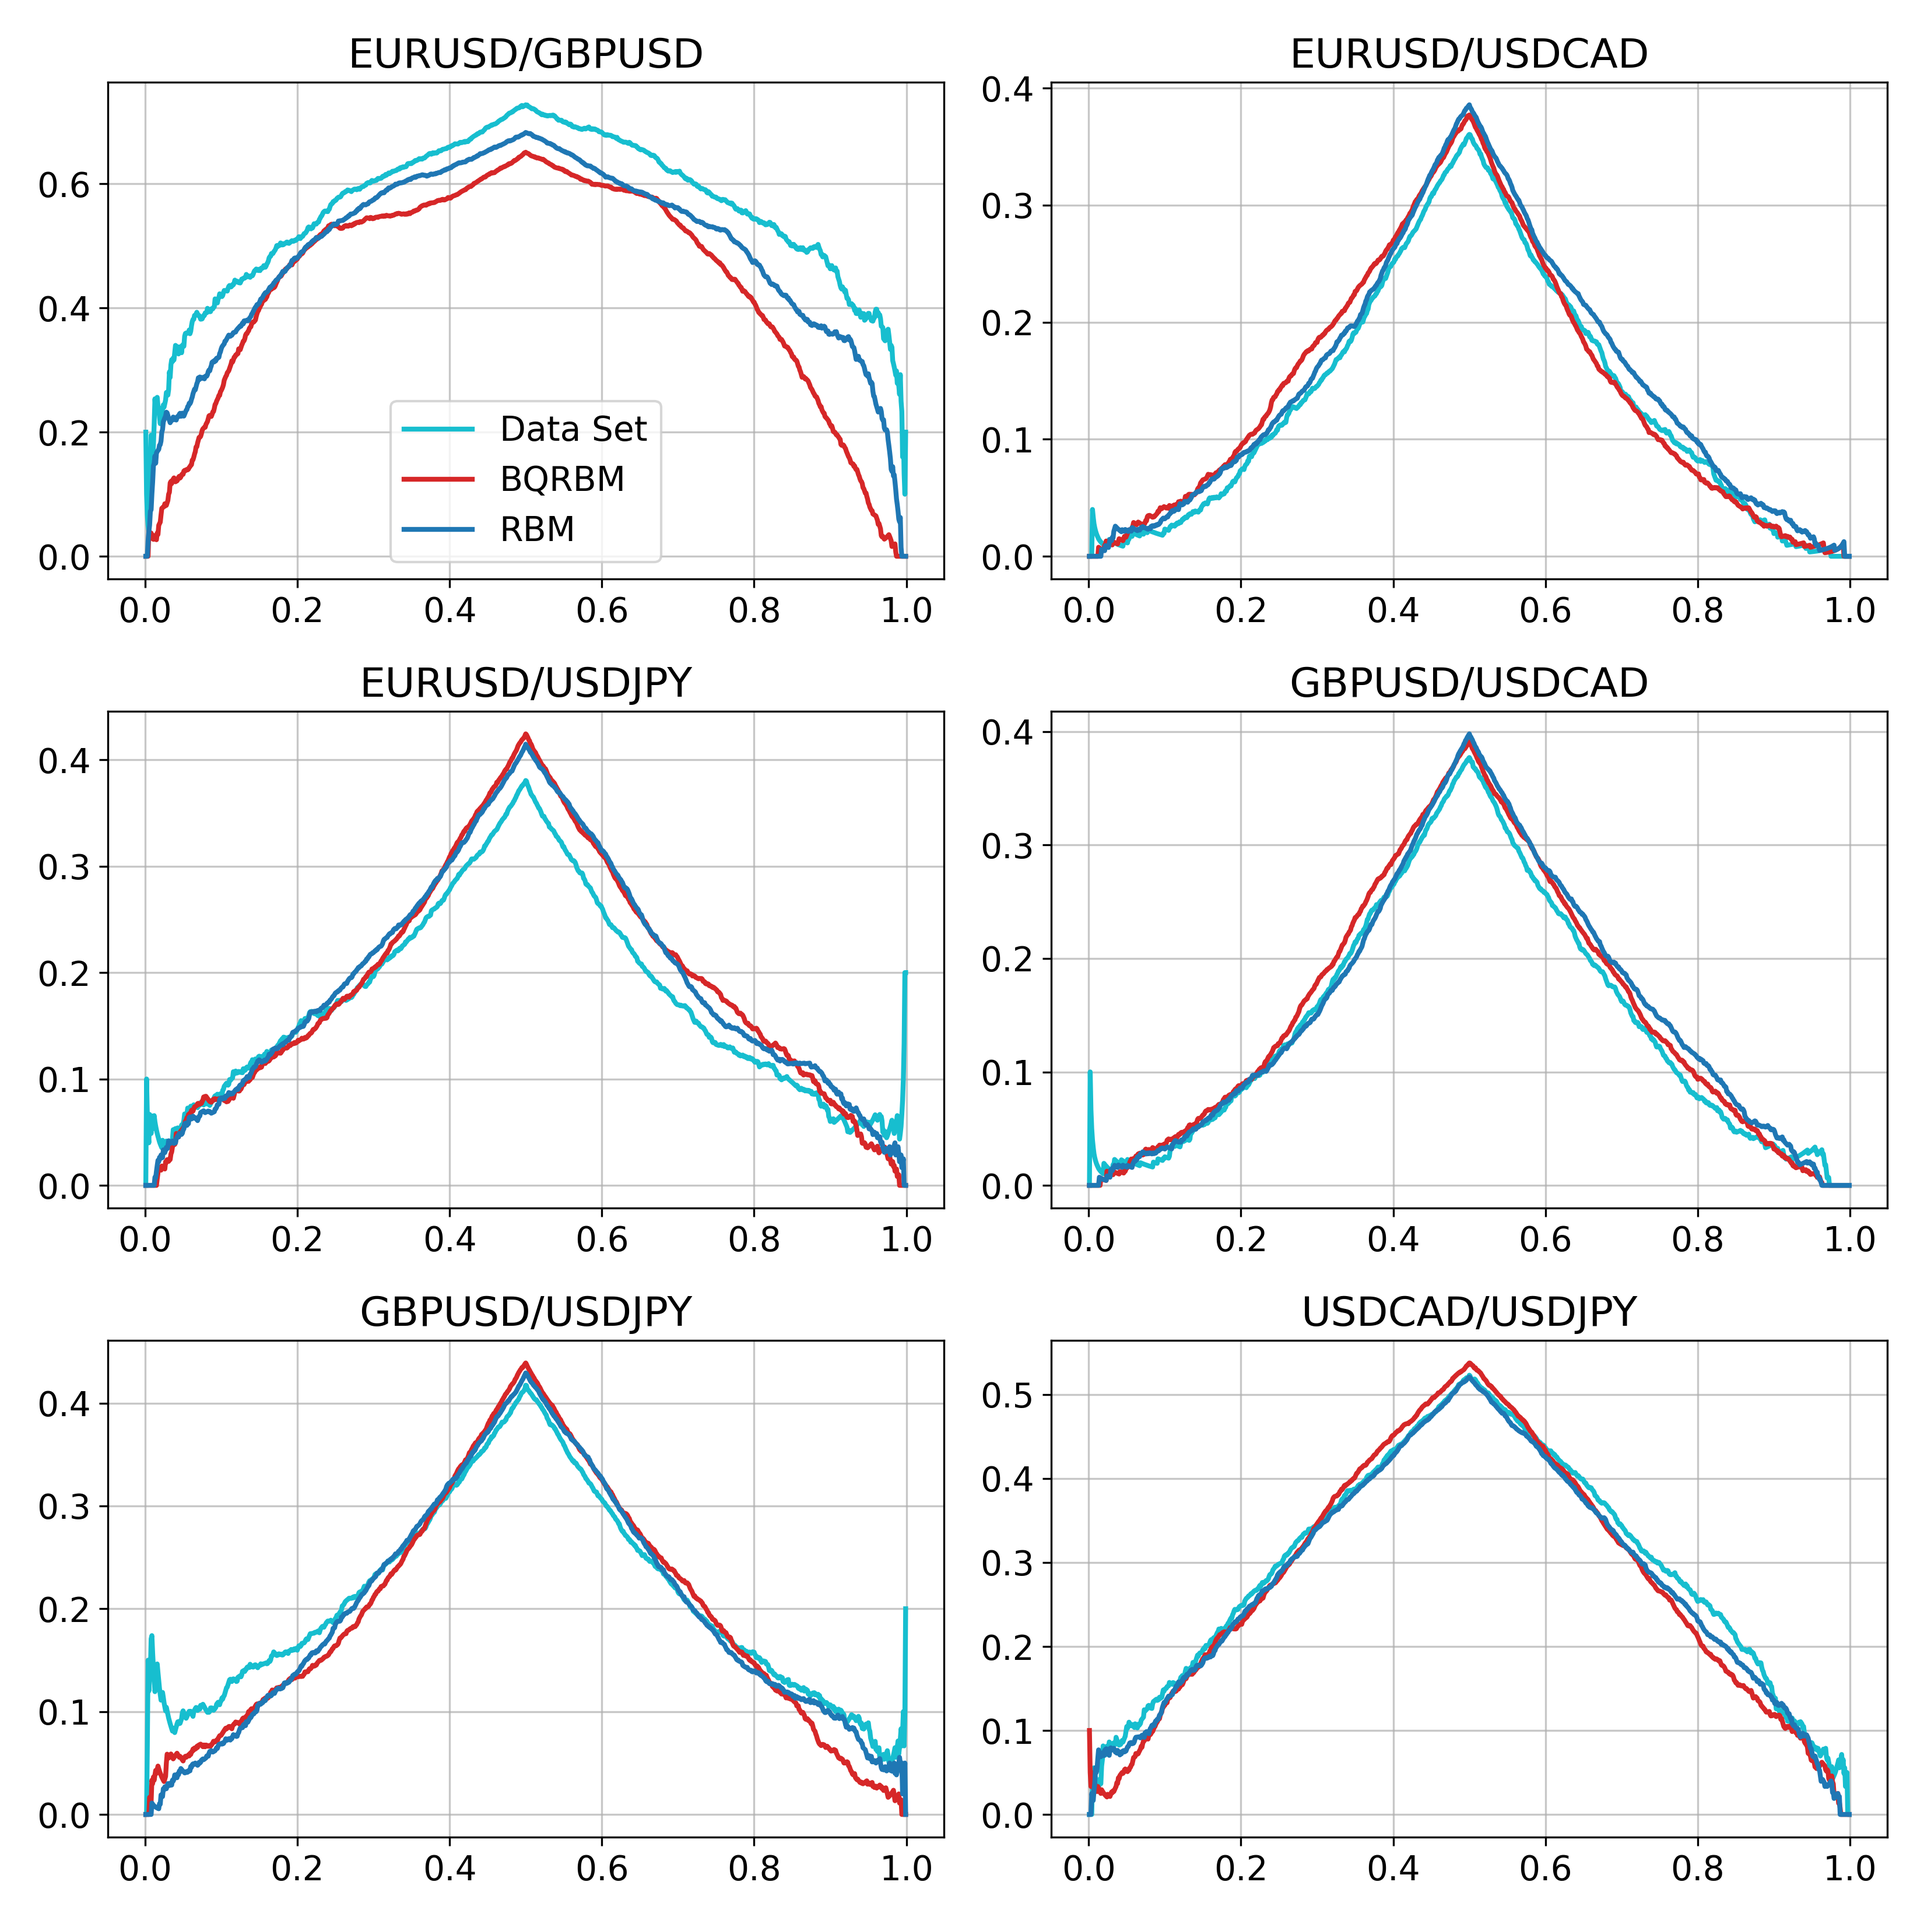
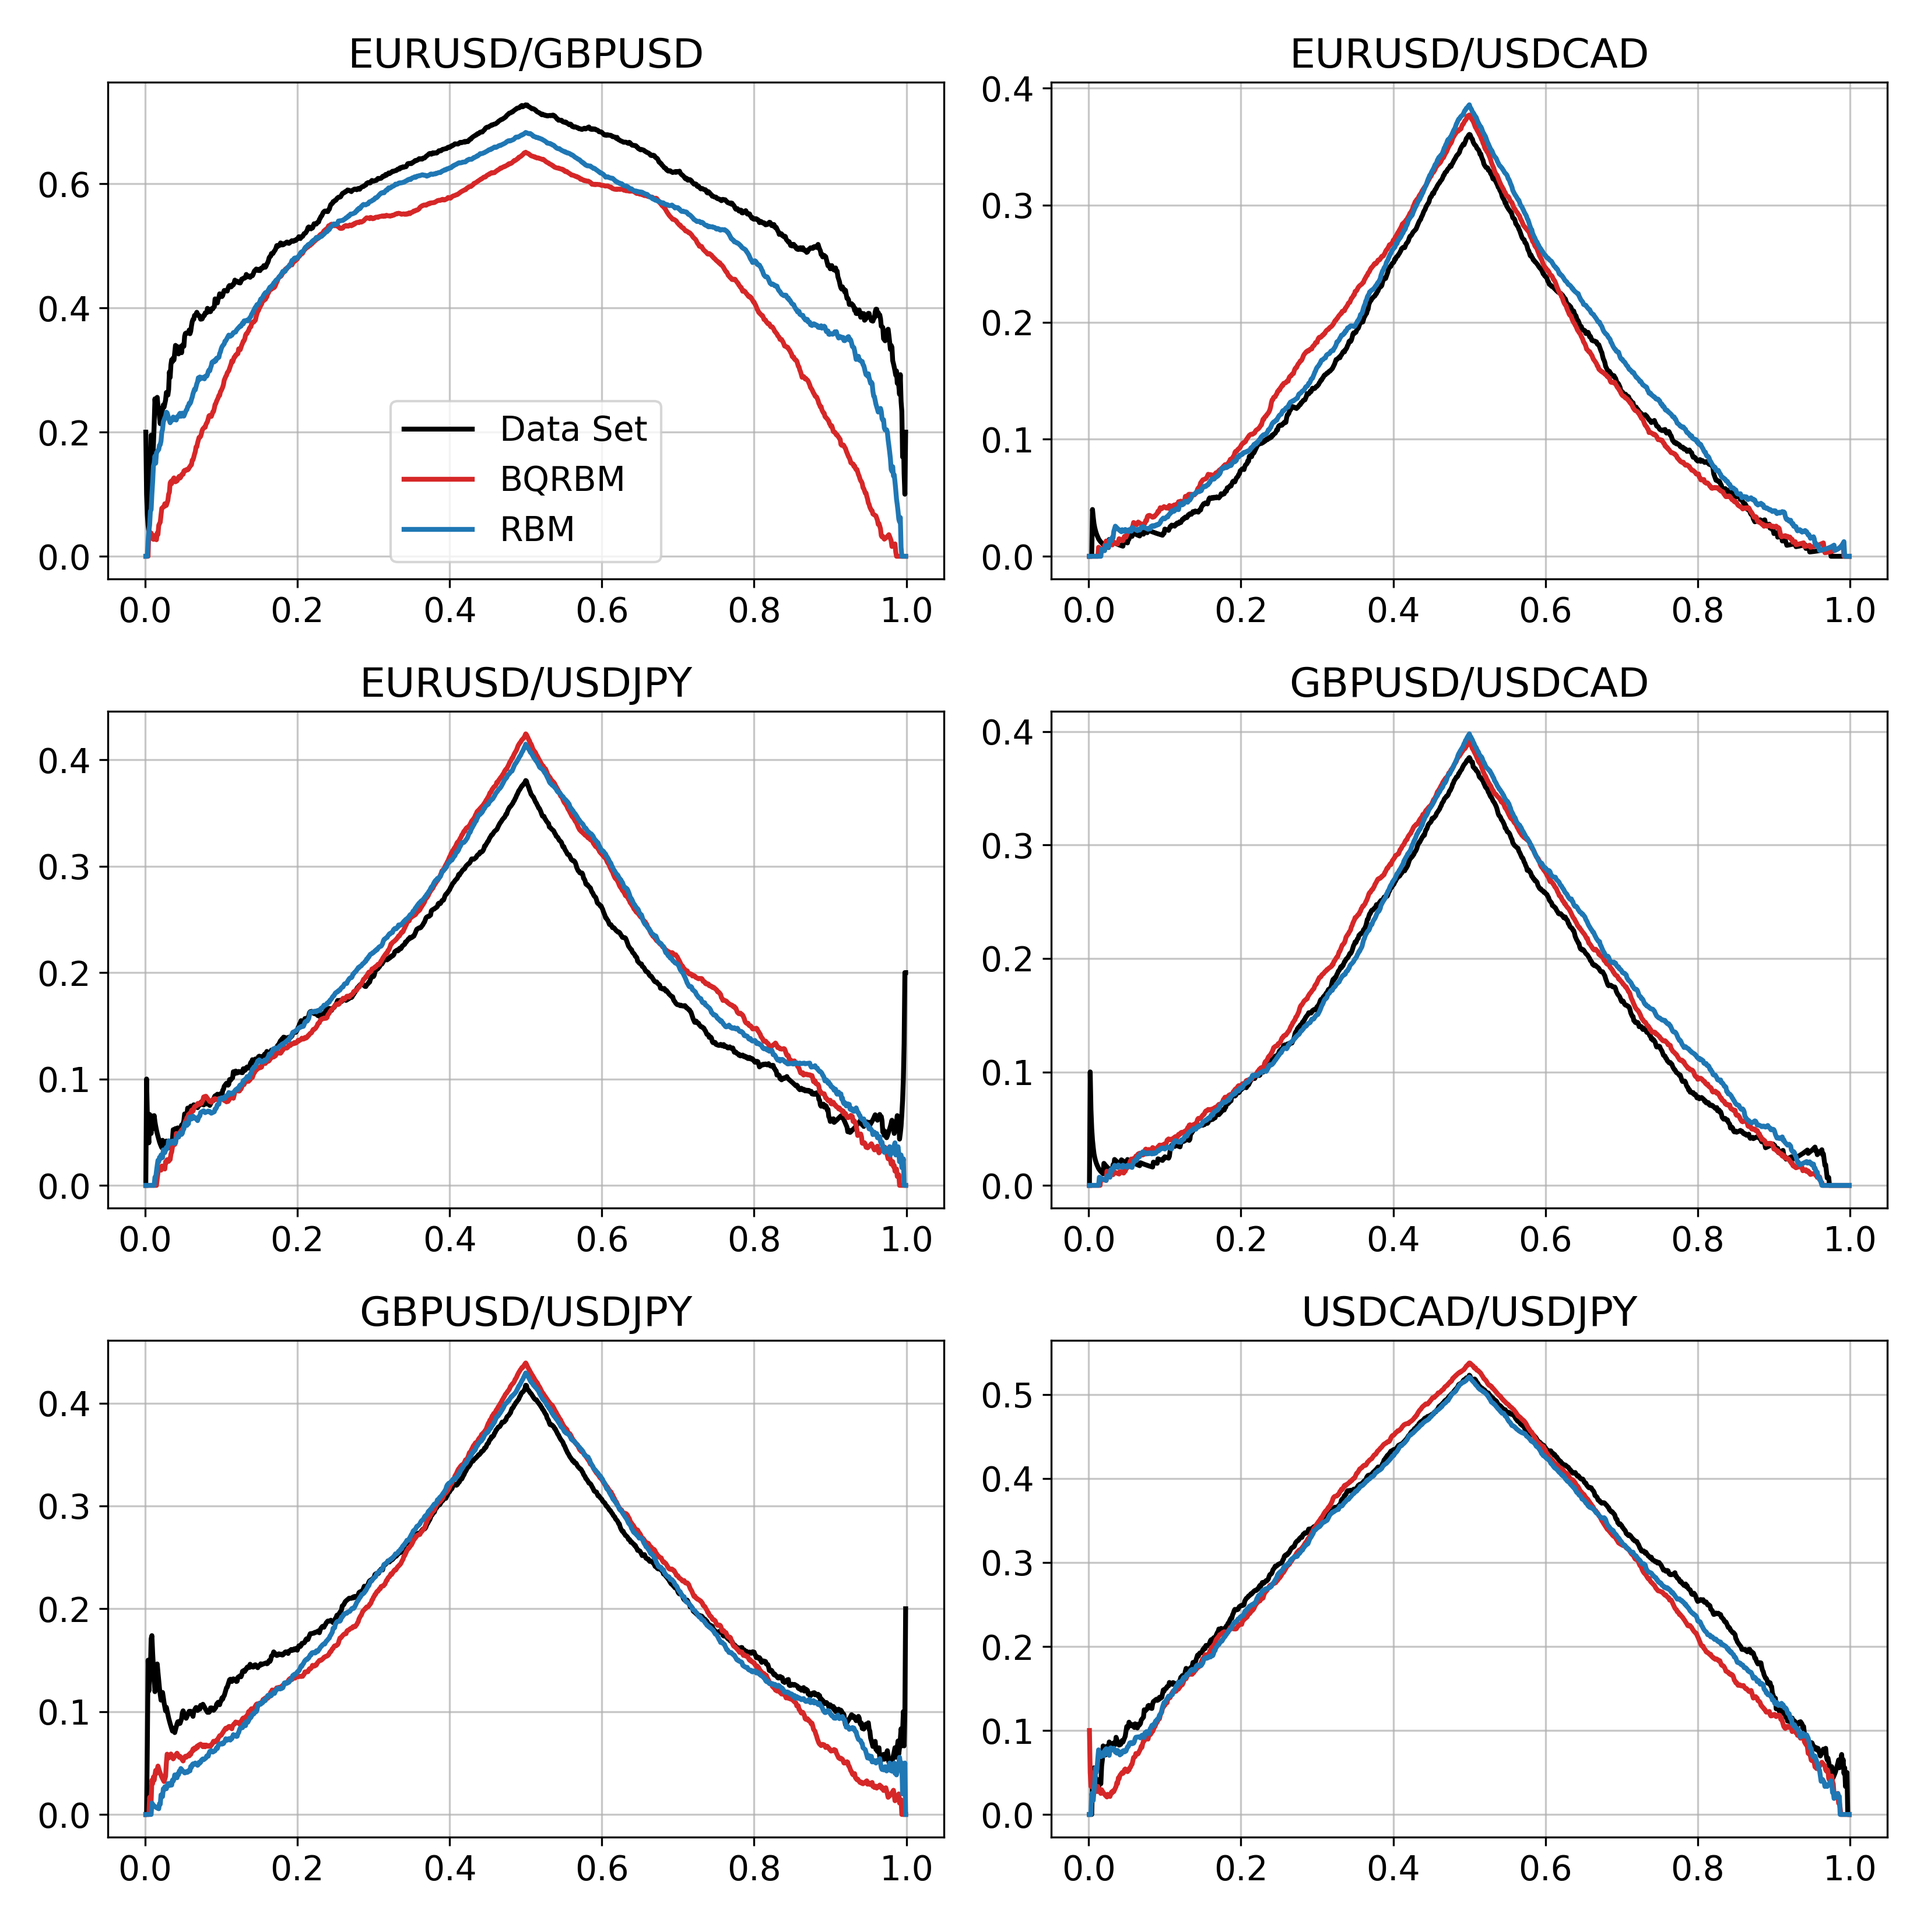
Updated tail concentration plots

diff --git a/src/qbm/plotting/metrics.py b/src/qbm/plotting/metrics.py
@@ -94,7 +94,7 @@ def plot_correlation_coefficients(data, sample):
         ax.errorbar(
             range(3),
             sample["means"].loc[row],
-            label="Sample Ensemble",
+            label="Samples Ensemble",
             yerr=sample["stds"].loc[row],
             fmt="o",
             markersize=4,
@@ -191,7 +191,7 @@ def plot_volatility_comparison(data, sample, params):
     ax.errorbar(
         range(len(data)),
         sample["means"],
-        label="Sample Ensemble",
+        label="Samples Ensemble",
         yerr=sample["stds"],
         fmt="o",
         markersize=6,

diff --git a/scripts/rbm/prepare_results.py b/scripts/rbm/prepare_results.py
@@ -202,7 +202,7 @@ matplotlib.rcParams.update({"font.size": 14})
 Plotting
 """
 colors = {
-    "Data Set": "tab:cyan",
+    "Data Set": "k",
     "RBM (B)": "tab:blue",
     "RBM (X)": "tab:orange",
     "RBM (V)": "tab:red",
@@ -280,7 +280,9 @@ table = "\n".join(table)
 save_table(table, "kl_divergences.tbl")
 
 # correlation coefficients table
-ccs = pd.concat(ccs.values(), axis=1).applymap(str_map, digits=2)
+ccs = pd.concat(ccs.values(), axis=1)
+ccs.to_csv(results_dir / "correlation_coefficients.csv")
+ccs = ccs.applymap(str_map, digits=2)
 print("Correlation Coefficients")
 print(ccs)
 
